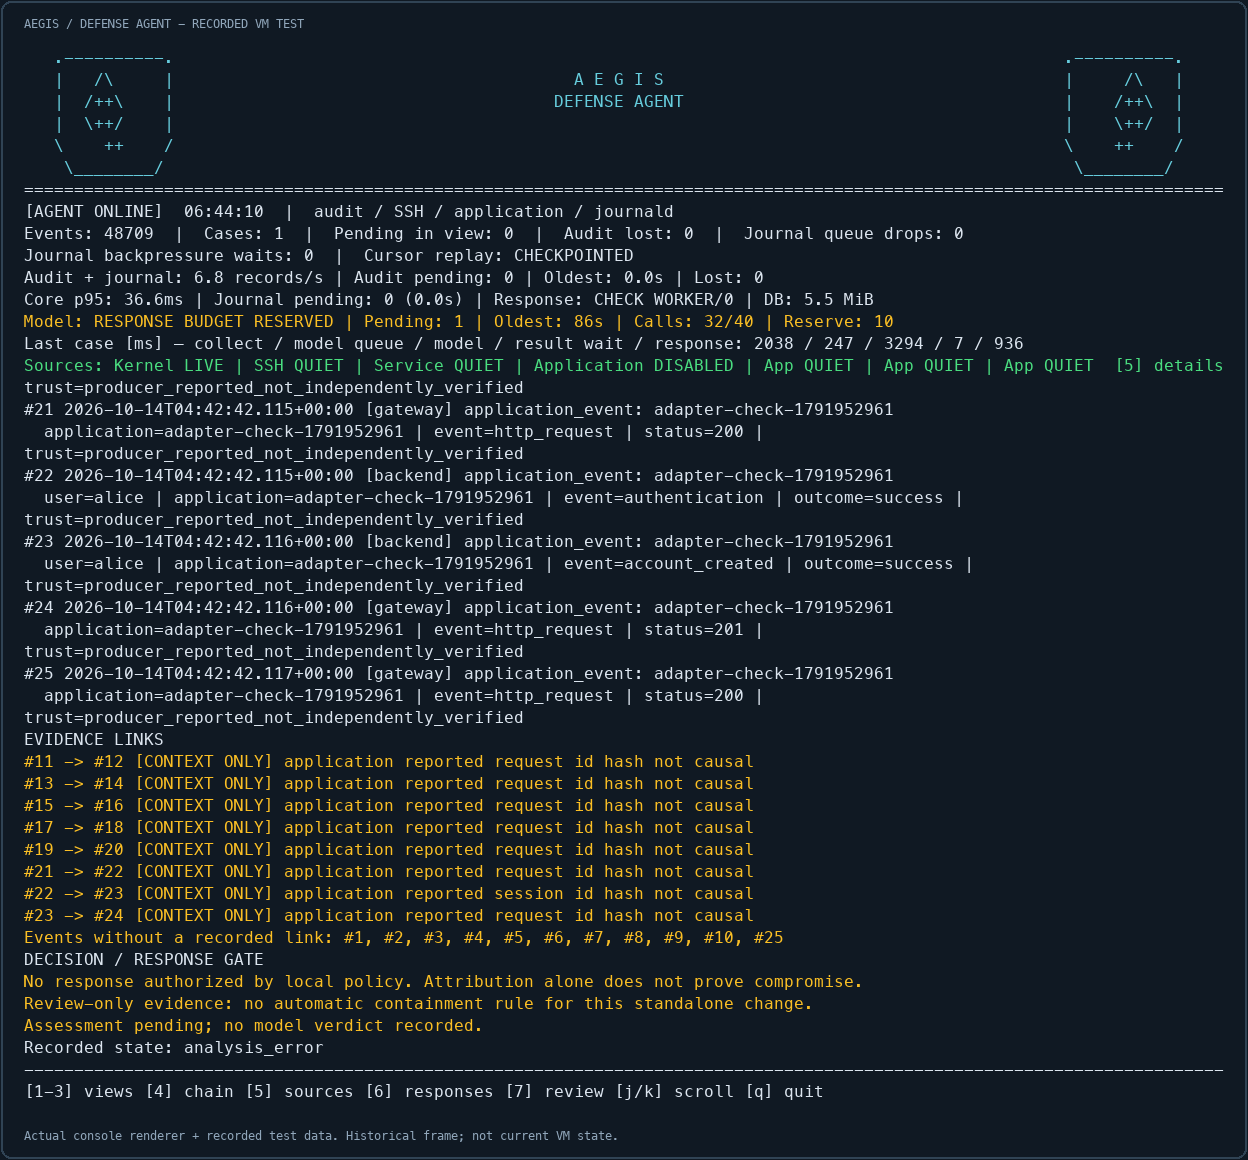
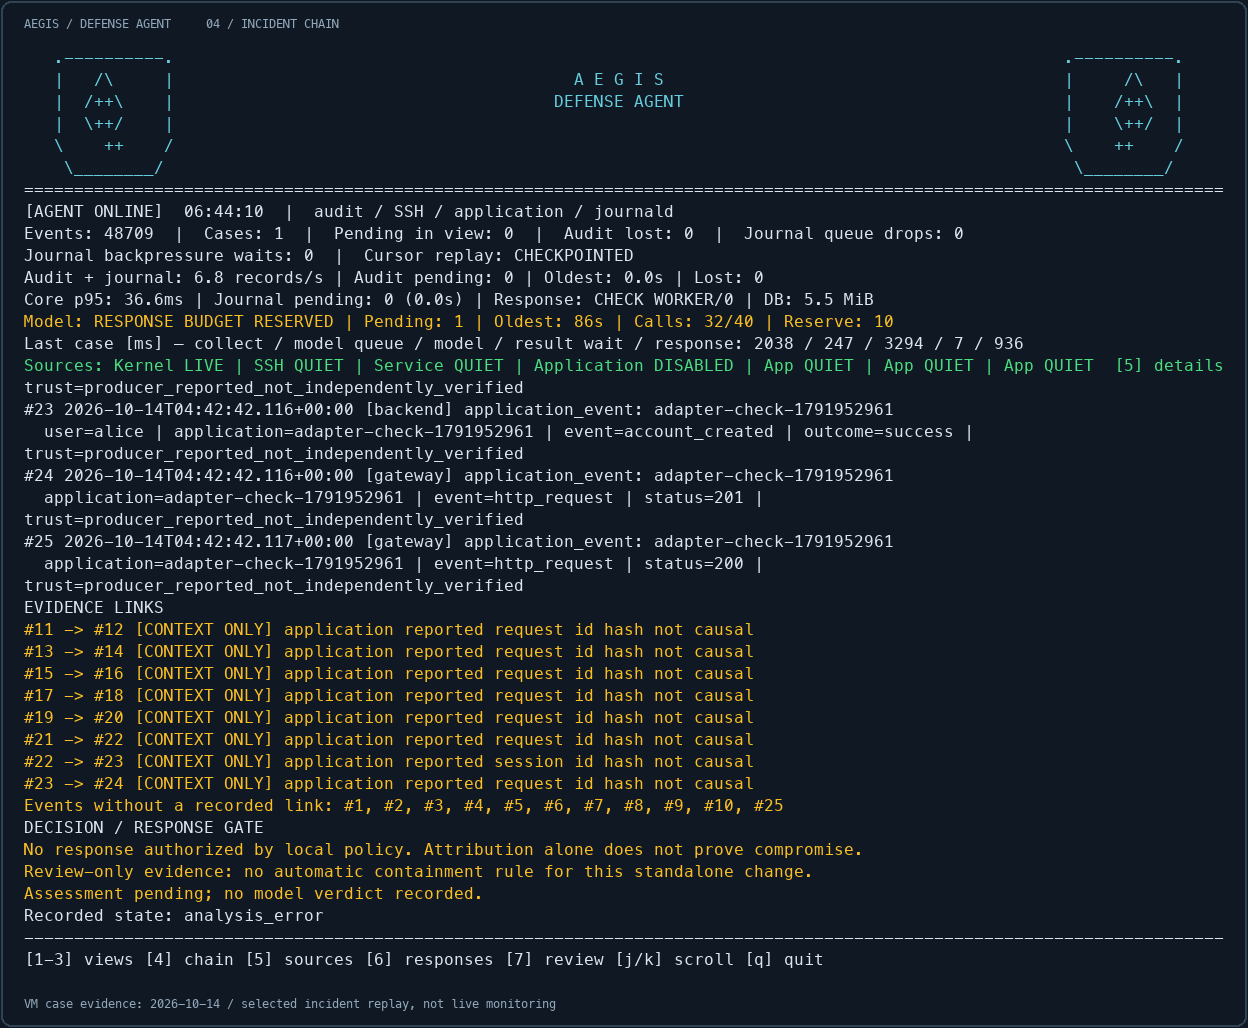
docs(aegis): refresh terminal gallery and audit published files

diff --git a/README.md b/README.md
@@ -4,23 +4,68 @@ AEGIS is a small, always-on Linux VM security prototype. It collects selected ke
 
 This repository contains an intentionally vulnerable application for an **isolated training VM**. The application listens on port 8081; keep inbound access to that port closed in the cloud firewall and use an SSH tunnel for exercises.
 
-## Terminal demo
+## Terminal gallery
 
-These frames were rendered by the AEGIS console from selected **real incidents recorded during live VM tests**. They show the same layout and colors as the running terminal; the selection keeps each attack chain readable. Application session tokens are redacted in the console.
+The gallery was refreshed on **2026-10-14**. All six views use the same shields, separators and color scheme. Overview, events, chain and sources are rendered by the current console from selected real VM test data recorded on October 14. The event panels replay normalized events retained in that incident because the live event window had already advanced. Response history and review show archived terminal frames from October 13; their layout remains current. These are recorded examples, not the present state of a running VM.
 
-**Suspicious activity; response withheld because the link to a harmful consequence is missing.**
+| Key | View | What it shows |
+| --- | --- | --- |
+| `1` | Overview | Event stream alongside assessments, worker health and model budget. |
+| `2` | Events | Normalized observations from the configured collectors. |
+| `3` | Assessments | Incident summaries and recorded response outcomes. |
+| `4` | Incident chain | Chronological evidence, explicit links and the response gate. |
+| `5` | Source Health | Source availability, parser coverage, backlog and application adapters. |
+| `6` | Response History | Recorded containment and rollback outcomes. |
+| `7` | Review Required | Uncertain operations, refused rollback and failed assessments. |
 
-![AEGIS observes an SQL authentication bypass and application shell without taking an unsupported action](aegis/assets/suspicious.png)
+**Overview — collection, analysis and operational health in one terminal.**
 
-**Correlated SQL injection to cron/systemd persistence; exact files quarantined and session revoked.**
+![AEGIS overview with events, assessment state and model budget](aegis/assets/overview.png)
 
-![AEGIS correlates an SQL injection with persistence changes and verifies file quarantine and session revocation](aegis/assets/defended.png)
+<details>
+<summary><strong>Event stream [2]</strong> — normalized application observations</summary>
 
-**Correlated account creation; account and session contained, with an enrolled dedicated-source IP blocked.**
+![AEGIS event stream from an independent application test](aegis/assets/events.png)
 
-![AEGIS verifies account quarantine, session revocation and a dedicated-source IP block](aegis/assets/account.png)
+</details>
 
-Yellow marks suspicious observations, red marks an error or confirmed policy violation, and blue marks a verified defense. A failed login or isolated shell launch alone does not trigger an IP block. The header stays fixed while the event and case panels refresh.
+<details>
+<summary><strong>Incident chain [4]</strong> — evidence links and response gate</summary>
+
+Shared request/session identifiers provide application-reported context. This test case received no model verdict because the ordinary-analysis budget was reserved; containment was withheld and manual review was required.
+
+![AEGIS incident chain with context links and containment withheld](aegis/assets/application-chain.png)
+
+</details>
+
+<details>
+<summary><strong>Source Health [5]</strong> — system coverage and independent application adapters</summary>
+
+The frame was recorded after a collector restart. The application sources are quiet because previously consumed records were checkpointed; zero counters refer to the new collector session.
+
+![AEGIS source coverage and JSONL/access-log adapters](aegis/assets/application-sources.png)
+
+</details>
+
+<details>
+<summary><strong>Response History [6]</strong> — containment and rollback outcomes</summary>
+
+Recorded test receipts include restored and contained states. They do not certify the current state of a host or firewall rule.
+
+![AEGIS response history with recorded containment and rollback results](aegis/assets/response-history.png)
+
+</details>
+
+<details>
+<summary><strong>Review Required [7]</strong> — operations needing an administrator</summary>
+
+Uncertain rollback and identity conflicts require inspection. This screen is read-only; rollback remains a separate root-only operation.
+
+![AEGIS review queue for uncertain operations and refused rollback](aegis/assets/review-required.png)
+
+</details>
+
+Yellow marks suspicious activity or uncertainty, red marks errors and review items, and blue marks recorded defense/rollback outcomes. The header stays fixed while content refreshes. Use `j`/`k` to scroll detail views and `n`/`p` to select an incident in the chain view.
 
 ## How it works
 
@@ -29,7 +74,9 @@ flowchart LR
     A[Linux audit] --> I[Durable bounded inbox]
     I --> C[Normalize and correlate]
     J[SSH and selected journald sources] --> C
-    B[Training app telemetry] --> C
+    B[Configured application JSONL / access logs] --> C
+    F[System log files] --> C
+    T[Optional training app telemetry] --> C
     C --> D[Evidence case: events and causal links]
     D --> E[Bounded model assessment]
     E --> F[Root-owned policy and target recheck]
@@ -195,11 +242,7 @@ Up to eight explicitly configured files are polled every 200 ms, at most 25 chun
 
 Run `sudo python3 live-application-source-tests.py` only on the isolated VM with AEGIS installed. It temporarily configures an independent loopback HTTP application, exercises real login/account operations and a SQL-like request, verifies normalized correlation, restarts the collector to check replay, and restores the original configuration. It does not demonstrate successful SQL exploitation or automatic containment of arbitrary applications.
 
-Recorded independent-application test frames (after a collector restart): the adapters are quiet because their records were already checkpointed. The chain shows application-reported links and the withheld-response gate. The model budget was reserved, so this case required manual review; these images do not show a successful model assessment or the current VM state.
-
-![Configured independent application sources in the AEGIS terminal](aegis/assets/application-sources.png)
-
-![Independent application request and session context with containment withheld](aegis/assets/application-chain.png)
+See the [terminal gallery](#terminal-gallery) for source coverage and an independent-application incident chain.
 
 ## Linux system-log coverage
 
@@ -287,6 +330,13 @@ Health is sampled every five seconds; the kernel audit status probe runs every 3
 `aegis/live-source-health-tests.py` briefly suspends/resumes collectors and core and stops/restarts the training broker on the isolated VM, preserving evidence. It saves source-only snapshots for visual checks and restores running components in cleanup.
 
 ## Change log
+
+### 2026-10-14 — Terminal gallery refresh and repository hygiene
+
+- Replace the October 6 demo images with a six-view gallery covering overview, events, incident chains, source health, response history and manual review. Document all seven navigation keys; keep secondary images collapsible and distinguish current rendering from archived test frames.
+- Reuse recorded VM evidence without starting the VM or changing agent behavior. Check image layout, documentation links and repository contents before publication.
+- Credential audit: Gitleaks 8.30.1 reported zero findings across all 18 pre-update Git commits and the complete staged publication tree. OCR-assisted inspection covered five historical and six gallery images, with zero scanner findings. GitHub had no additional branches, tags, releases, Actions runs/artifacts or issue/PR records at the time of inspection. This is a point-in-time check, not a guarantee against every possible secret format.
+- Extend credential-file exclusions and verify that local SSH keys, runtime configurations and evidence exports remain outside Git. The example model configuration contains placeholders; the worker obtains Azure credentials at runtime through managed identity. Deliberately synthetic training credentials remain part of the isolated demo.
 
 ### 2026-10-14 — Application-independent log adapters
 
@@ -390,3 +440,14 @@ Health is sampled every five seconds; the kernel audit status probe runs every 3
 - Required the full causal evidence set before any response, and kept a case out of `defended` unless every action returns verified success.
 - Added regression tests for a model returning only part of the plan and for missing evidence. All 67 unit tests passed.
 - Re-ran the live SSH account-creation exercise on the Azure lab VM: the account was quarantined; the short test session had already closed, which the executor verified; and the source IP remained reachable without prior failures. The response completed about 9.4 seconds after the last evidence event in this run. The VM was deallocated after testing.
+
+## Before publishing changes
+
+Keep operational configuration, private keys and evidence exports outside Git. The bundled application's synthetic test credentials are intentionally public; never reuse them for a deployed application. Check the staged changes and history with [Gitleaks](https://github.com/gitleaks/gitleaks):
+
+```sh
+gitleaks git . --pre-commit --staged --redact=100
+gitleaks git . --log-opts=--all --redact=100
+```
+
+Also inspect screenshot text and metadata: source-code secret scanners do not reliably inspect pixels. If a real credential is ever published, revoke or rotate it first; removing it from the latest file alone does not remove historical copies.
